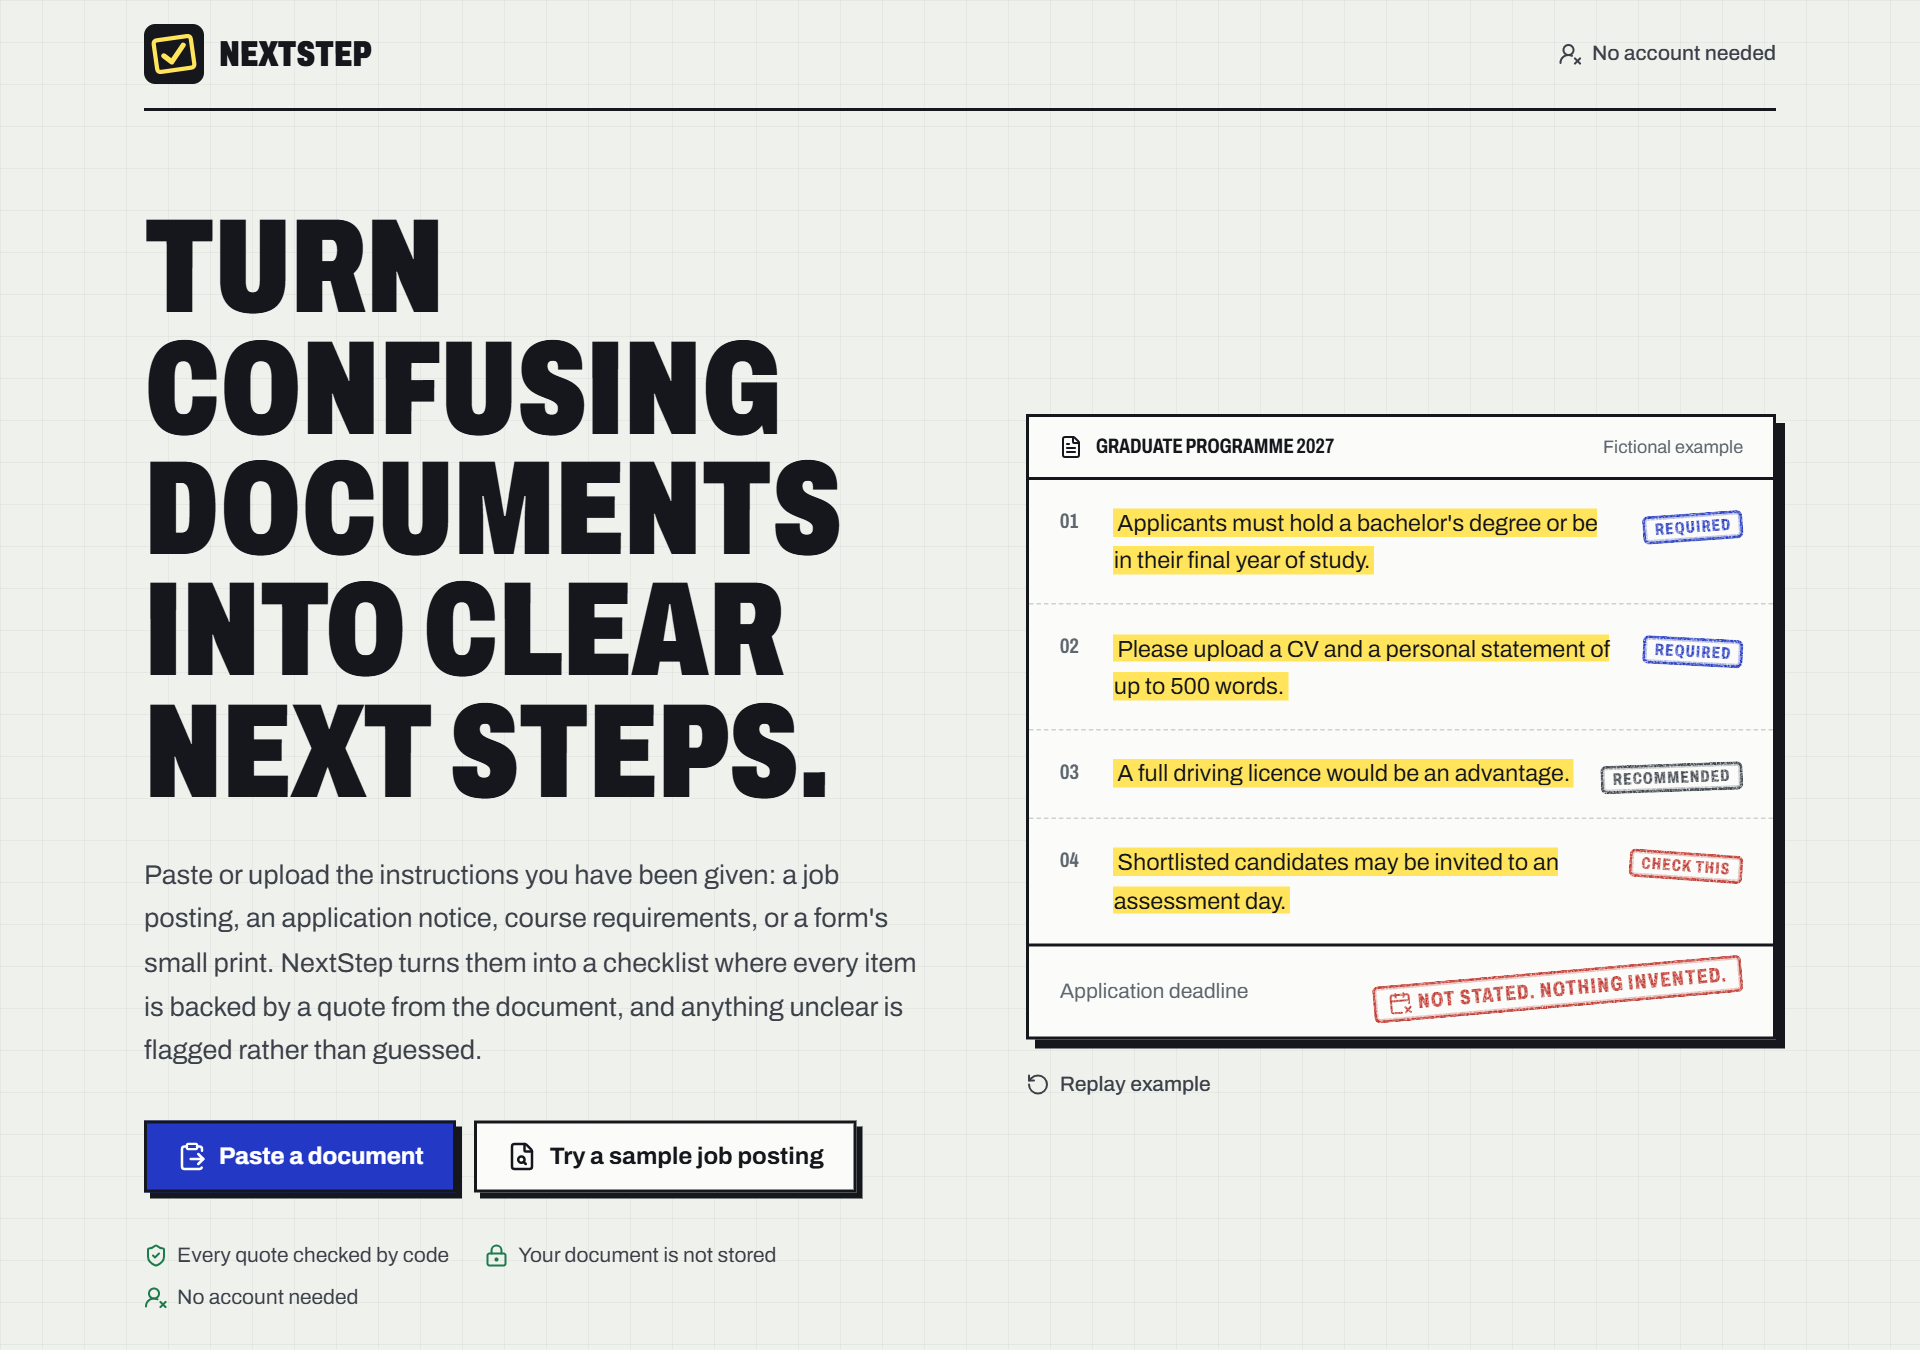
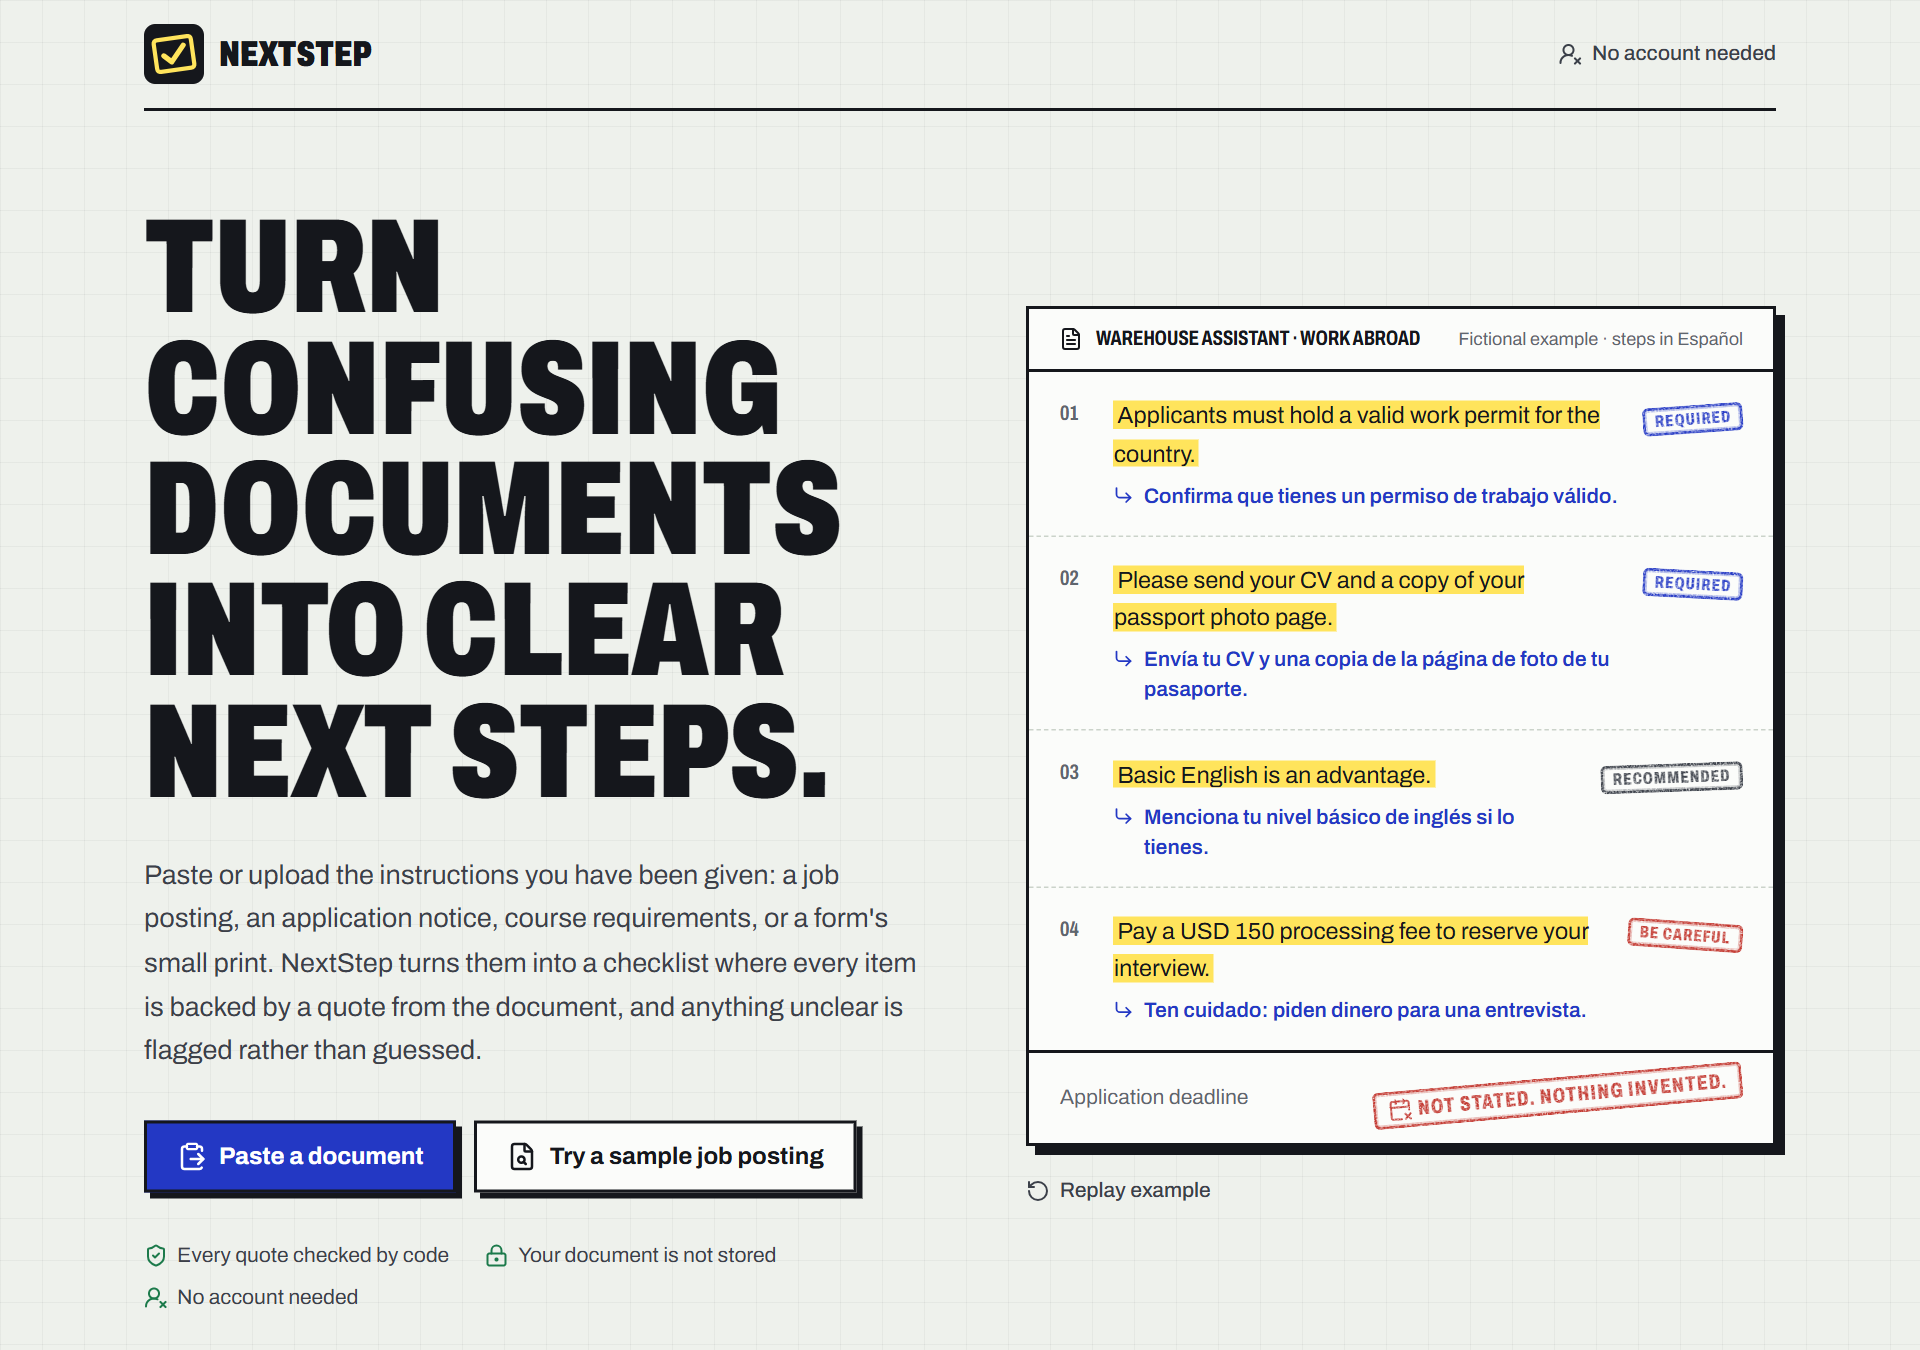
Show a job abroad in the hero example
The landing example now matches the problem NextStep targets: a fictional job
posting read in Spanish, with original quotes stamped, translated steps, and a
processing-fee request stamped "Be careful".

diff --git a/src/components/hero-demo.tsx b/src/components/hero-demo.tsx
@@ -1,29 +1,41 @@
 "use client";
 
 import { useRef } from "react";
-import { CalendarX2, FileText, RotateCcw } from "lucide-react";
+import { CalendarX2, CornerDownRight, FileText, RotateCcw } from "lucide-react";
 import { gsap, MOTION_OK, thump, useGSAP } from "@/lib/motion";
 import { Stamp, type StampTone } from "./stamp";
 
-/* A fictional notice, shown as the product's own proof: each sentence is highlighted,
-   then stamped with what the document's wording makes it. */
-const LINES: { quote: string; stamp: string; tone: StampTone; rotate: number }[] = [
+/* A fictional job abroad, read by someone whose first language is Spanish: the product's own proof.
+   Each original sentence is highlighted and stamped with what its wording makes it, the step appears in
+   the reader's language, and a request for money is flagged, as NextStep does with payment requests. */
+const STEP_LANGUAGE = { code: "es", label: "Español" };
+
+const LINES: { quote: string; step: string; stamp: string; tone: StampTone; rotate: number }[] = [
   {
-    quote: "Applicants must hold a bachelor's degree or be in their final year of study.",
+    quote: "Applicants must hold a valid work permit for the country.",
+    step: "Confirma que tienes un permiso de trabajo válido.",
     stamp: "Required",
     tone: "required",
     rotate: -4,
   },
   {
-    quote: "Please upload a CV and a personal statement of up to 500 words.",
+    quote: "Please send your CV and a copy of your passport photo page.",
+    step: "Envía tu CV y una copia de la página de foto de tu pasaporte.",
     stamp: "Required",
     tone: "required",
     rotate: 3,
   },
-  { quote: "A full driving licence would be an advantage.", stamp: "Recommended", tone: "recommended", rotate: -2 },
   {
-    quote: "Shortlisted candidates may be invited to an assessment day.",
-    stamp: "Check this",
+    quote: "Basic English is an advantage.",
+    step: "Menciona tu nivel básico de inglés si lo tienes.",
+    stamp: "Recommended",
+    tone: "recommended",
+    rotate: -2,
+  },
+  {
+    quote: "Pay a USD 150 processing fee to reserve your interview.",
+    step: "Ten cuidado: piden dinero para una entrevista.",
+    stamp: "Be careful",
     tone: "check",
     rotate: 4,
   },
@@ -52,7 +64,9 @@ export function HeroDemo() {
             { backgroundSize: "0% 100%" },
             { backgroundSize: "100% 100%", duration: 0.55, ease: "power1.inOut" },
             i === 0 ? "+=0.15" : "+=0.1",
-          ).add(thump(`[data-demo='stamp-${i}']`, "[data-demo='sheet']"), "-=0.05");
+          )
+            .add(thump(`[data-demo='stamp-${i}']`, "[data-demo='sheet']"), "-=0.05")
+            .fromTo(`[data-demo='step-${i}']`, { autoAlpha: 0, y: 4 }, { autoAlpha: 1, y: 0, duration: 0.3 }, "-=0.1");
         });
 
         tl.add(thump("[data-demo='deadline']", "[data-demo='sheet']"), "+=0.25").fromTo(
@@ -84,9 +98,9 @@ export function HeroDemo() {
         <div className="flex items-center justify-between gap-3 border-b-2 border-ink px-5 py-2.5">
           <p className="condensed flex items-center gap-2 text-sm font-bold tracking-wide text-ink uppercase">
             <FileText className="size-4" aria-hidden />
-            Graduate Programme 2027
+            Warehouse assistant · work abroad
           </p>
-          <p className="text-xs text-muted-ink">Fictional example</p>
+          <p className="text-xs text-muted-ink">Fictional example · steps in {STEP_LANGUAGE.label}</p>
         </div>
 
         <ol className="divide-y divide-dashed divide-rule">
@@ -95,11 +109,22 @@ export function HeroDemo() {
               <span aria-hidden className="condensed mt-0.5 w-5 shrink-0 text-sm font-bold text-muted-ink">
                 {String(i + 1).padStart(2, "0")}
               </span>
-              <p className="flex-1 text-[0.975rem] leading-relaxed text-ink-soft">
-                <span data-demo={`mark-${i}`} className="evidence-mark">
-                  {line.quote}
-                </span>
-              </p>
+              <div className="flex-1">
+                <p className="text-[0.975rem] leading-relaxed text-ink-soft">
+                  <span data-demo={`mark-${i}`} className="evidence-mark">
+                    {line.quote}
+                  </span>
+                </p>
+                <p
+                  data-demo={`step-${i}`}
+                  data-demo-reveal
+                  lang={STEP_LANGUAGE.code}
+                  className="mt-1.5 flex items-start gap-1.5 text-sm font-semibold text-ballpoint"
+                >
+                  <CornerDownRight className="mt-0.5 size-3.5 shrink-0" aria-hidden />
+                  {line.step}
+                </p>
+              </div>
               <span data-demo={`stamp-${i}`} data-demo-reveal className="mt-0.5 inline-block shrink-0">
                 <Stamp tone={line.tone} rotate={line.rotate} className="text-[0.7rem]">
                   {line.stamp}

diff --git a/devpost/checklist.md b/devpost/checklist.md
@@ -172,3 +172,4 @@ Activity mode: pending. Map checked: snippet matches source exactly; no scripts 
 - Slice 10 findings from real runs (gpt-4o-mini, 25 Oct): (1) **Tetun dropped.** Even with explicit instructions, the model left most step titles in English, and a half-translated checklist would mislead the reader it's meant for; the spec now says a language is offered only after a real run shows the model writes it reliably. (2) **Eligibility conditions were skipped in Spanish** ("Applicants must hold a bachelor's degree…"), consistently at temperature 0; the prompt now names eligibility conditions as steps in every language, and both the Spanish and English scholarship runs then listed all three (12 of 12 and 11 of 11 quotes found). (3) The prompt's English example phrases pulled titles back to English, so the language rule now says to translate them, and the chosen language is repeated after the document. (4) Token use: a full checklist now takes about 2,400–2,700 tokens in every language, English included (the safety and language rules made the prompt longer); README updated from the older 1,300–1,700 figure. Verified: Spanish, Portuguese, French, Indonesian, Filipino, and Swahili runs with every quote found; the misuse probe still fails all four attacks; a real browser run in Spanish (scholarship sample) produced Spanish titles marked `lang="es"`, the receipt, the English deadline quote, and Word and PDF downloads with the accented letters intact; `npm run build` passes.
 - Second independent judge-style review (read-only AI agent, same brief: Design 8, Impact 7, Innovation 7). Fixed, test-first: (1) more injection false positives on ordinary sentences ("Write a 500-word essay", "do not follow up by phone", "share API keys securely", "in the summary section of your CV", "state the deadline you can start by"); patterns now need an AI-directed shape, with every sentence added as a regression case. (2) The date check matched English month prefixes only, so correct deadlines in Spanish, French, Portuguese, Indonesian, Filipino, and Swahili documents were downgraded, and "may" or "Decisions" could pass as a month; the month must now sit next to the day, in any offered language, or both must be in a numeric date. (3) A hand-made `/results` link could show a fake checklist stamped Found; the server now seals every result (`lib/seal.ts`), the extension carries the seal, and `/results` shows and saves only what `/api/handoff` confirms. Building it exposed a real bug the unit tests missed: React StrictMode runs effects twice in development, and the second run lost the hand-off; fixed with a one-read guard and a StrictMode test. (4) The home page now validates the API answer before showing or saving it. (5) The default model is now `gpt-4o-mini`, the one every run used. (6) README: the Responsible AI section no longer claims prompt-only rules are enforced in code; results and evidence screenshots retaken with the receipt; privacy page discloses the seal check. (7) Planning-doc drift: PRD open questions resolved, spec "unverified" notes, default model, test tree, and the scope animation note. Verified end to end with the real extension, a live server, and one real model call: the genuine link showed 7 of 7 quotes found; the same link with one step edited was refused and the saved checklist left alone.
 - The rules audit flagged one "API key" in git history: it was a made-up test value (`sk-test-…`) written in `tests/seal.test.ts` in commit e2461ed, never a real key. Renamed to `fake-openai-key-for-tests` so it no longer looks like a key; history was not rewritten (that would need a force-push of the public repo for a harmless string).
+- Hero example changed at final review (learner feedback, 26 Oct): the fictional "Graduate Programme 2027" notice became a fictional job abroad that shows the problem NextStep targets: original English sentences stamped Required or Recommended, each step in Spanish underneath (marked `lang="es"`), and a request to pay a processing fee stamped Be careful, matching how the app flags payment requests. Checked at 1280 px with motion and at 375 px with reduced motion: no overflow, no page errors. README home screenshot retaken.

diff --git a/README.md b/README.md
@@ -6,7 +6,7 @@ Paste a job posting, an application notice, course requirements, or a form's ins
 
 Built for Devpost's *Build With AI: Basics* hackathon.
 
-![NextStep home page: "Turn confusing documents into clear next steps", with a fictional example document whose sentences are stamped Required, Recommended, and Check this, and a deadline stamped Not stated. Nothing invented.](docs/screenshots/home.png)
+![NextStep home page: "Turn confusing documents into clear next steps", beside a fictional job abroad. Each original English sentence is highlighted and stamped Required or Recommended with its step in Spanish underneath, a request to pay a USD 150 processing fee is stamped Be careful, and the deadline is stamped Not stated. Nothing invented.](docs/screenshots/home.png)
 
 ## Who it's for
 
